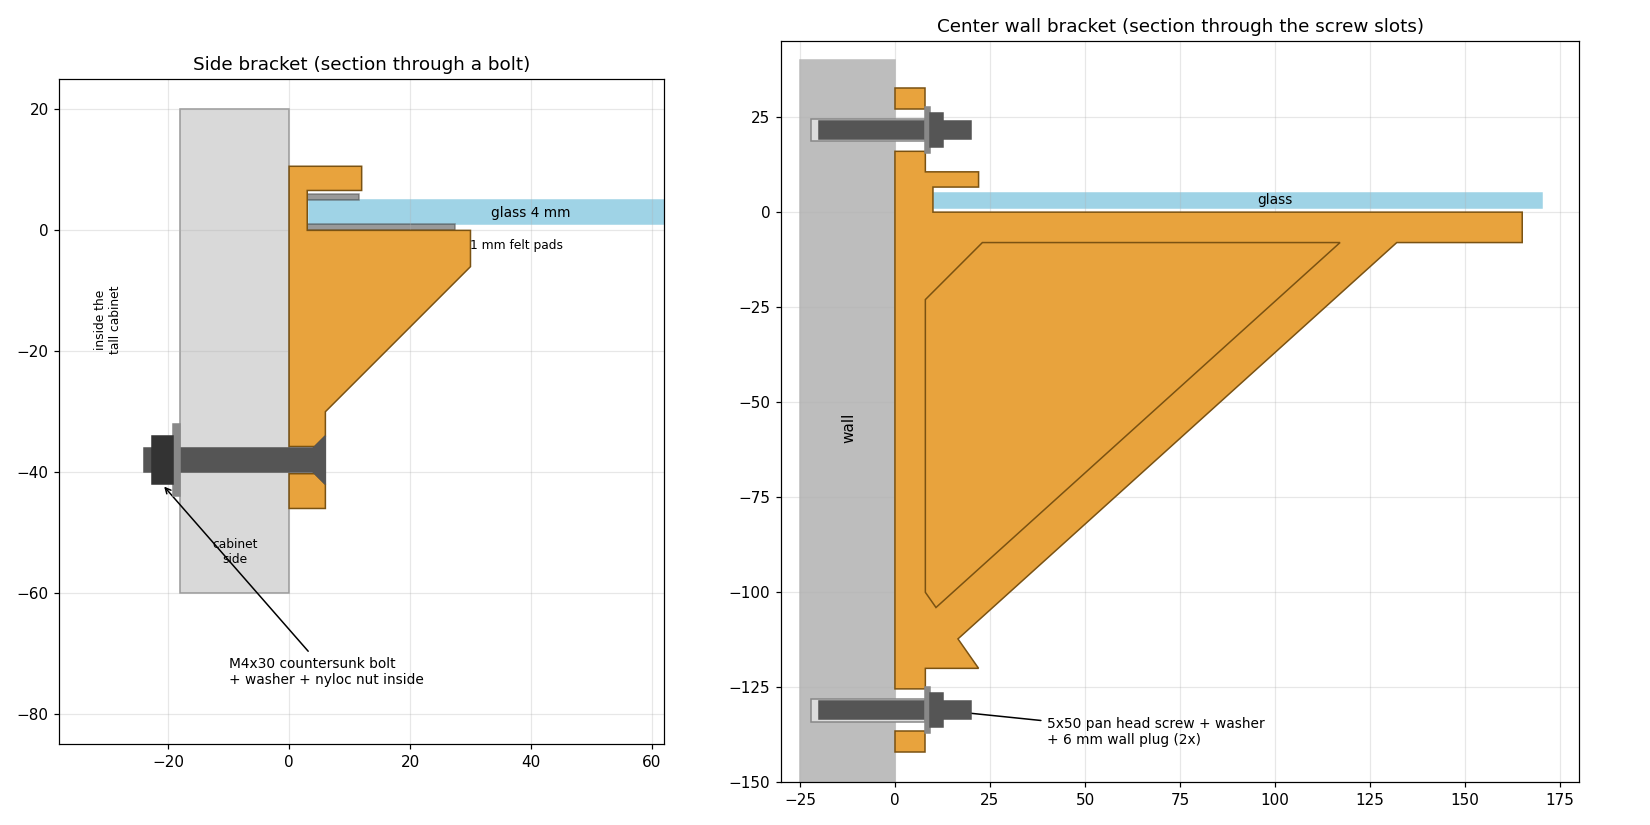
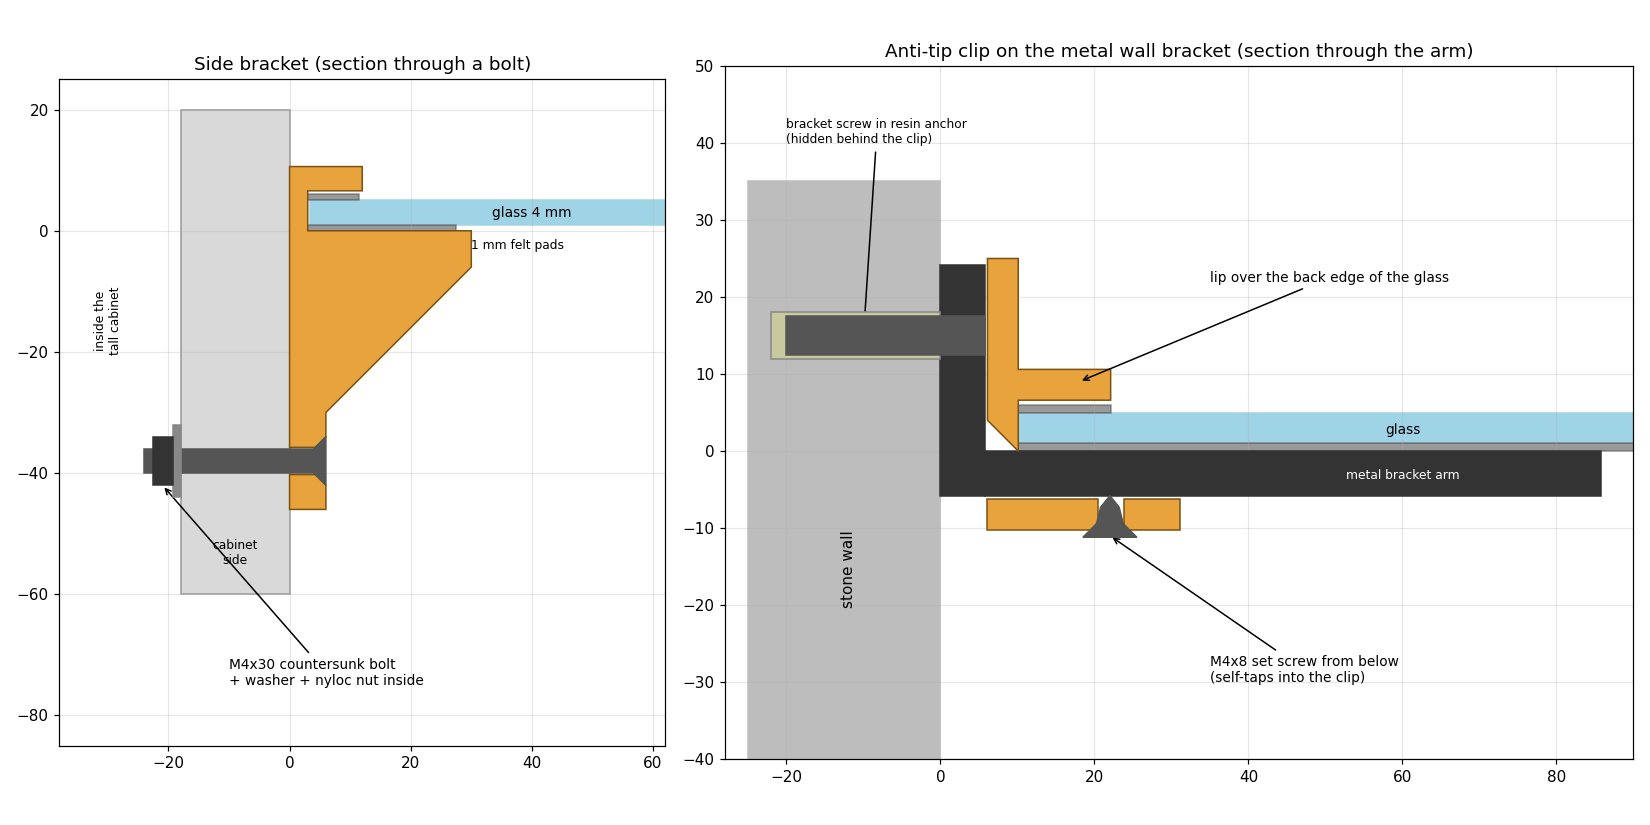
besta shelves: wall brackets and anti-tip clip
Both shelves now rest on 2 metal wall brackets 40 cm from the ends, so
they stay up if a cabinet is moved. The printed center bracket is
replaced by an anti-tip clip that slides on the bracket arm and holds
the back edge of the glass. READMEs cover the new layout and fixing
into a thick stone wall.

diff --git a/FreeCad/Besta Glass Shelf Support/glass_shelf_supports.py b/FreeCad/Besta Glass Shelf Support/glass_shelf_supports.py
@@ -28,18 +28,22 @@ DROP      = 46.0   # how far the plate extends below the resting surface
 SCREW_D   = 4.5    # screw hole (M4 through bolts or 3.5 mm chipboard screws)
 CSK_D     = 8.0    # countersink diameter
 
-# --- center bracket (wall mounted, supports the middle of the glass) ---
-C_WIDTH   = 40.0   # width
-C_ARM     = 165.0  # reach from the wall (printed lying down: A1 mini bed 180x180)
-C_H       = 120.0  # height below the resting surface
-C_PLATE   = 8.0    # wall plate thickness
-C_LT      = 8.0    # arm thickness
-C_STRUT   = 10.0   # diagonal strut thickness
-GLASS_BACK = 10.0  # distance from wall to the back edge of the glass (min. 4)
-C_LIP     = 12.0   # top lip over the back edge of the glass
-WALL_SCREW = 5.2   # wall screw slot width (6 mm plug + 4.5/5 mm screw)
-SLOT_LEN  = 6.0    # slot travel for height adjustment (+-3 mm)
-
+# --- anti-tip clip (slides on the arm of a metal wall bracket, holds the back edge of the glass) ---
+# Made for T-shaped flat-bar shelf brackets (TESSTINA "concealed" type): wall plate 100 x 30 x 5.8 mm,
+# arm a flat bar laid flat, leaving the plate bottom edge. MEASURE YOURS and adjust.
+BAR_W     = 38.0   # arm width
+BAR_T     = 5.8    # arm thickness
+PLATE_T   = 5.8    # wall plate thickness
+PLATE_UP  = 24.0   # how far the wall plate rises above the top of the arm
+BEND_R    = 4.0    # clearance for the bend between plate and arm
+FIT       = 0.4    # clearance around the arm
+CLIP_W    = 100.0  # clip width (covers the wall plate)
+CLIP_WALL = 4.0    # front wall thickness: the back edge of the glass ends up at PLATE_T + 0.3 + CLIP_WALL from the wall
+CLIP_LIP  = 12.0   # how far the lip covers the glass
+CLIP_LIP_T = 4.0   # lip thickness
+CLIP_REACH = 25.0  # how far the clip runs along the arm
+CLIP_FLOOR = 4.0   # thickness under the arm
+SET_D     = 3.4    # set screw hole (M4 screw self-taps into the plastic)
 OUT_DIR = os.path.dirname(os.path.abspath(__file__)) if "__file__" in dir() else os.getcwd()
 # ------------------------------------------------------------------------
 
@@ -81,53 +85,40 @@ def side_bracket():
     return body.removeSplitter()
 
 
-def center_bracket():
-    # profile in the YZ plane (Y = out from the wall), extruded along X
-    def pr(pts):
-        v = [App.Vector(0, y, z) for y, z in pts]
-        return Part.Face(Part.makePolygon(v + [v[0]])).extrude(App.Vector(C_WIDTH, 0, 0))
-
-    z_top = SLOT + 4 + 22          # plate rises above the glass for the upper screw
-    z_bot = -C_H - 22              # and drops below the strut foot for the lower one
-    plate = pr([(0, z_bot), (C_PLATE, z_bot), (C_PLATE, z_top), (0, z_top)])
-    arm = pr([(0, -C_LT), (C_ARM, -C_LT), (C_ARM, 0), (0, 0)])
-    back = pr([(0, 0), (GLASS_BACK, 0), (GLASS_BACK, SLOT), (0, SLOT)])
-    lip = pr([(0, SLOT), (GLASS_BACK + C_LIP, SLOT), (GLASS_BACK + C_LIP, SLOT + 4), (0, SLOT + 4)])
-    # diagonal strut from the plate foot to 80% of the arm
-    ya, za = C_PLATE, -C_H
-    yb, zb = C_ARM * 0.8, -C_LT
-    import math
-    dy, dz = yb - ya, zb - za
-    n = math.hypot(dy, dz)
-    oy, oz = -dz / n * C_STRUT, dy / n * C_STRUT   # perpendicular offset
-    strut = pr([(ya, za), (yb, zb), (yb + oy, zb + oz), (ya + oy, za + oz)])
-    strut = strut.common(pr([(0, -C_H), (C_ARM, -C_H), (C_ARM, 0), (0, 0)]))
-    # fillets
-    f1 = pr([(C_PLATE, -C_LT), (C_PLATE + 15, -C_LT), (C_PLATE, -C_LT - 15)])
-    f2 = pr([(C_PLATE, -C_H + 20), (C_PLATE, -C_H), (C_PLATE + 14, -C_H)])
-    body = plate.fuse([arm, back, lip, strut, f1, f2])
-
-    # vertical wall slots, clear in front (straight screwdriver access)
-    cx = C_WIDTH / 2
-    for zc in (z_top - 11, z_bot + 11):
-        r = WALL_SCREW / 2
-        s = Part.makeCylinder(r, C_PLATE + 2, App.Vector(cx, -1, zc - SLOT_LEN / 2), App.Vector(0, 1, 0))
-        s2 = Part.makeCylinder(r, C_PLATE + 2, App.Vector(cx, -1, zc + SLOT_LEN / 2), App.Vector(0, 1, 0))
-        sb = Part.makeBox(2 * r, C_PLATE + 2, SLOT_LEN, App.Vector(cx - r, -1, zc - SLOT_LEN / 2))
-        body = body.cut(s).cut(s2).cut(sb)
+def anti_tip_clip():
+    # profile in the YZ plane (Y = out from the wall, Z = up, top of the metal arm at Z=0), extruded along X
+    y0 = PLATE_T + 0.3                       # back face rests against the wall plate
+    yw = y0 + CLIP_WALL                      # back edge of the glass
+    zb = -BAR_T - FIT - CLIP_FLOOR           # underside
+    pts = [(y0, zb), (y0 + CLIP_REACH, zb), (y0 + CLIP_REACH, 0), (yw, 0), (yw, SLOT),
+           (yw + CLIP_LIP, SLOT), (yw + CLIP_LIP, SLOT + CLIP_LIP_T), (yw, SLOT + CLIP_LIP_T),
+           (yw, PLATE_UP + 1), (y0, PLATE_UP + 1)]
+    v = [App.Vector(-CLIP_W / 2, y, z) for y, z in pts]
+    body = Part.Face(Part.makePolygon(v + [v[0]])).extrude(App.Vector(CLIP_W, 0, 0))
+    # the glass slot is open: glass rests on the arm (and on the clip top at Z=0) with felt
+    # channel for the metal arm
+    hw = BAR_W / 2 + FIT
+    body = body.cut(Part.makeBox(2 * hw, CLIP_REACH + 2, BAR_T + FIT + 0.01,
+                                 App.Vector(-hw, y0 - 1, -BAR_T - FIT)))
+    # clearance for the plate/arm bend
+    v = [App.Vector(-hw, y, z) for y, z in ((y0 - 1, -0.01), (y0 + BEND_R, -0.01), (y0 - 1, BEND_R + 1))]
+    body = body.cut(Part.Face(Part.makePolygon(v + [v[0]])).extrude(App.Vector(2 * hw, 0, 0)))
+    # set screw from below: presses the arm up against the clip and stops it sliding
+    body = body.cut(Part.makeCylinder(SET_D / 2, CLIP_FLOOR + 2,
+                                      App.Vector(0, y0 + CLIP_REACH - 9, zb - 1)))
     return body.removeSplitter()
 
 
 doc = App.newDocument("GlassShelfSupports")
 side = side_bracket()
-cen = center_bracket()
+clip = anti_tip_clip()
 o1 = doc.addObject("Part::Feature", "SideBracket"); o1.Shape = side
-o2 = doc.addObject("Part::Feature", "CenterBracket"); o2.Shape = cen
-o2.Placement.Base = App.Vector(80, 0, 0)
+o2 = doc.addObject("Part::Feature", "AntiTipClip"); o2.Shape = clip
+o2.Placement.Base = App.Vector(120, 0, 0)
 doc.recompute()
 doc.saveAs(os.path.join(OUT_DIR, "glass_shelf_supports.FCStd"))
 
-for shape, name in ((side, "side_bracket_x2.stl"), (cen, "center_bracket_x1.stl")):
+for shape, name in ((side, "side_bracket_x2.stl"), (clip, "anti_tip_clip_x2.stl")):
     m = Mesh.Mesh(shape.tessellate(0.05))
     m.write(os.path.join(OUT_DIR, name))
     print(name, "volume cm3:", round(shape.Volume / 1000, 1), "valid:", shape.isValid(),

diff --git a/FreeCad/Besta Glass Shelf Support/README.md b/FreeCad/Besta Glass Shelf Support/README.md
@@ -1,6 +1,10 @@
 # BESTÅ Glass Shelf Support
 
-3D printed supports that turn an IKEA **BESTÅ glass top panel (180 × 40 cm, 4 mm tempered glass)** into a floating shelf between two tall BESTÅ cabinets, above the BESTÅ TV bench. The glass is never drilled: its ends slide into two sideways-U brackets bolted to the cabinet sides, and a wall bracket supports the middle.
+Turns an IKEA **BESTÅ glass top panel (180 × 40 cm, 4 mm tempered glass)** into a floating shelf between two tall BESTÅ cabinets, above the BESTÅ TV bench. The glass is never drilled:
+
+- **It rests on 2 metal wall brackets.** They are flat-bar T brackets with 25 cm arms, placed 40 cm from each end, so the shelf stands on the wall alone.
+- **2 printed anti-tip clips hold its back edge.** They slide onto the bracket arms, so a weight on the front edge (the arms are 25 cm, the glass is 40 cm deep) cannot tip the glass up. They also cover the black wall plates.
+- **2 printed side brackets (sideways U) can hold its ends.** They are optional extras, bolted to the cabinet sides. If you ever need to move a cabinet, unbolt the U and the shelf stays up.
 
 ![Overview](overview.png)
 
@@ -8,32 +12,33 @@
 
 | File | Qty | What it is |
 |---|---|---|
-| `side_bracket_x2.stl` | 2 | Sideways U, 170 mm long. The glass end slides into the slot and the plate below is bolted to the cabinet side. It is symmetric, so for the other side just rotate it 180°. |
-| `center_bracket_x1.stl` | 1 | Wall bracket with a 165 mm arm and a lip over the back edge of the glass. Without it the 4 mm glass sags about 3–4 cm over 1.8 m from its own weight. |
+| `anti_tip_clip_x2.stl` | 2 | Clip that slides onto the arm of a metal bracket, with a lip over the back edge of the glass. An M4 set screw from below locks it. |
+| `side_bracket_x2.stl` | 2 | Sideways U, 170 mm long, bolted to the cabinet side; the glass end slides into it. It is symmetric, so for the other side just rotate it 180°. |
 | `glass_shelf_supports.py` | – | Parametric FreeCAD script that generates everything. |
 | `glass_shelf_supports.FCStd` | – | FreeCAD model. |
 
-![Sections with fasteners](sections.png)
+![Sections](sections.png)
 
 ## Hardware
 
 | Qty | Item | Where |
 |---|---|---|
+| 2 | Flat-bar T shelf bracket, 25 cm arm (e.g. TESSTINA "concealed" 80 kg: wall plate 100 × 30 × 5.8 mm, 3 countersunk holes) | wall |
+| 6 | Wall fixings for those brackets, see [Fixing into a thick stone wall](#fixing-into-a-thick-stone-wall) | bracket → wall |
+| 2 | M4 × 8 screw (any head) | clip set screw, self-taps into the plastic |
 | 6 | M4 × 30 countersunk bolt (ISO 10642 / DIN 7991) | side brackets → through the cabinet side |
 | 6 | M4 washer, wide (DIN 9021) | inside the cabinet |
-| 6 | M4 nyloc nut (DIN 985), or domed cap nut (DIN 1587) for a tidier look | inside the cabinet |
-| 2 | 5 × 50 pan head wood screw | center bracket → wall |
-| 2 | 6 mm wall plug for your wall type (masonry plug for brick/concrete, metal cavity anchor for drywall) | center bracket → wall |
-| 2 | 5.3 mm washer (DIN 125) | center bracket slots |
-| ~1 m | 1 mm adhesive felt tape, 10 mm wide | lines every face that touches the glass |
+| 6 | M4 nyloc nut (DIN 985), or a plain nut with medium (blue) threadlocker | inside the cabinet |
+| ~1 m | 1 mm adhesive felt tape, 10 mm wide | every face that touches the glass |
 
-**Why through bolts?** BESTÅ frame sides are particleboard skins with a honeycomb paper core, so wood screws in the middle of a side panel hold poorly. Bolting through the side with a wide washer inside spreads the load and holds firmly. M4 × 30 works for sides up to ~18 mm thick, so measure yours and use M4 × 35 if it is thicker.
+**Why bolt through the cabinet?** BESTÅ frame sides are particleboard skins with a honeycomb paper core, so wood screws in the middle of a side panel hold poorly. A bolt with a wide washer inside holds firmly. M4 × 30 suits sides up to ~19 mm thick; use M4 × 35 if yours are thicker.
 
 ## Before you start
 
 1. **Glass thickness.** The IKEA spec is 0.4 cm. Measure it with a caliper and set `GLASS_T` if it differs.
-2. **Gap between the tall cabinets.** It must be at least **1808 mm**: 1800 of glass, plus 3 mm of U back wall on each side, plus 2 mm of play. Tempered glass cannot be cut. If the gap is smaller, move a cabinet out a few mm, or set `BACK = 0`. With `BACK = 0` the side bracket becomes an L: the glass rests on it with no top lip, and nothing sits between the glass and the cabinet.
-3. **Wall distance.** Measure how far the back edge of the glass will be from the wall and set `GLASS_BACK` (default 10 mm, min. 4).
+2. **Metal brackets.** Measure the arm width and thickness (`BAR_W`, default 38, and `BAR_T`, default 5.8). Also measure how far the wall plate rises above the top of the arm (`PLATE_UP`, default 24). Then regenerate the clip.
+3. **Depth.** The back edge of the glass ends up about 10 mm from the wall (plate 5.8 + clip wall 4). Check that this works with how far your cabinets stand from the wall.
+4. **Gap between the cabinets (side brackets only).** It must be at least **1808 mm**: 1800 of glass, plus 3 mm of U back wall on each side, plus 2 mm of play. If it is smaller, set `BACK = 0`: the U becomes an L and the glass rests on it with no top lip. Or leave the side brackets out.
 
 ## Printing (Bambu Lab A1 mini)
 
@@ -49,24 +54,49 @@
 
 ![Print orientation](print_orientation.png)
 
+- **Anti-tip clip:** print it with its back face (the wall side) on the bed. Every feature then grows straight up, so there are no overhangs.
 - **Side bracket:** stand it upright on its U profile (170 mm tall). The layers then follow the profile, so the ledge carrying the glass does not load the layer lines in tension.
-- **Center bracket:** lay it on its side (profile on the bed, 40 mm tall).
 
 ## Installation
 
-1. **Mark the shelf height** on both cabinet sides. The top of the side-bracket ledge sits 1 mm (felt) below the underside of the glass. Use a laser or a long spirit level so both sides are at exactly the same height.
-2. **Position the side brackets.** Hold each side bracket against the cabinet side with the U opening toward the gap, centered on the depth (about 115 mm from the front edge). Keep it level.
-3. **Drill.** Use the bracket as a template and drill **4.5 mm** through the cabinet side at the 3 holes. Clamp a scrap block on the inside so the melamine doesn't chip.
-4. **Bolt the side brackets.** Fit the countersunk bolts from the bracket side, and the washers and nuts inside the cabinet. Tighten firmly, but don't crush the panel.
-5. **Mount the center bracket.** Hold it on the wall at mid-span, with its ledge at the same height as the side ledges; a straight edge across all three helps. Mark the slots, drill and plug the wall, then fit the screws with washers. Fine-tune the height (±3 mm) in the slots before the final tightening.
-6. **Add the felt.** Stick felt tape on the ledge and under the top lip of each U, and on the center bracket ledge and lip.
-7. **Fit the glass.** Hold it level at the height of the slots and slide it in from the front, pushing it back until it reaches the center bracket. It should not rattle. If it does, use thicker felt, and if it is too tight, thinner felt (or change `PAD` and reprint).
+1. **Metal brackets.** Mount the 2 metal brackets on the wall **40 cm from each end of the shelf**, i.e. 100 cm apart and centered on the gap. The tops of both arms must be at exactly the same height: use a spirit level on each one and a long straight edge across both. Shelf height = top of the arm + 1 mm of felt.
+2. **Clips.** Slide a clip onto each arm until it rests against the wall plate, then tighten the M4 × 8 set screw from below until the clip is firm. Don't overtighten: the screw only needs to stop the clip from sliding.
+3. **Felt.** Stick felt tape on top of each arm and clip, and under each clip lip.
+4. **Side brackets (optional).** Lay the straight edge on the two arms and mark that height on both cabinet sides. The top of each side-bracket ledge goes exactly there, so all four supports are level. Center each bracket on the depth with the U opening toward the gap.
+   - **Drill:** use the bracket as a template and drill **4.5 mm** through the cabinet side at its 3 holes, with a scrap block clamped inside so the melamine doesn't chip.
+   - **Bolt:** fit the countersunk bolts from the bracket side, and the washers and nuts inside the cabinet. Felt goes in the U too.
+5. **Glass.** Hold it level and slide it in from the front, under the clip lips (and into the U slots), until its back edge touches the clips. It should not rattle. If it does, use thicker felt, and if it is too tight, thinner felt (or change `PAD`).
 
-**Load:** keep it moderate (decorations, a few books spread out) and avoid heavy point loads near the front at mid-span.
+**Moving a cabinet later:** take the glass out, unbolt that side bracket, move the cabinet, then put everything back. The metal brackets and clips stay on the wall.
+
+## Fixing into a thick stone wall
+
+Old stone walls (often ~1 m thick: hard stones bedded in lime mortar, with voids, under a thick plaster coat) are hard on ordinary plugs. The drill wanders between hard stone and soft mortar, holes come out oversized, and the plug has nothing solid to expand against.
+
+**Best option: injection resin (chemical anchor).** Fischer FIS V / FIS EM Plus, Würth WIT, Mungo and similar.
+- **How:** drill, clean the hole thoroughly (blow out and brush, at least twice: dust is what makes resin fail), inject resin from the bottom up and push in the plug while the resin is wet. You can use the plug supplied with the bracket, or a threaded rod or internally threaded sleeve (e.g. Fischer RG MI). Wait the cure time printed on the cartridge (usually 1–2 h) before driving the screw and loading.
+- **Voids:** if the hole hits a cavity, put a **mesh sleeve** in the hole first, so the resin doesn't vanish into it.
+
+**Simpler option, if the hole comes out clean in solid stone:** a good universal plug such as Fischer DuoPower or UX, longer than usual (e.g. 8 × 65). It must go past the plaster, because the old plaster (2–3 cm) holds nothing and only the depth in the stone counts.
+
+**Drilling tips:**
+- **Tool:** use hammer mode (an SDS rotary hammer is ideal) with a sharp masonry bit.
+- **Mortar:** if the bit slips into soft mortar, switch hammer off so the hole doesn't widen.
+- **Oversized hole:** if a hole comes out too big, don't force a bigger plug in; use resin.
+
+## How stiff is it?
+
+Rough estimates of the sag of a 1.8 m shelf:
+
+| Support | 4 mm glass |
+|---|---|
+| Only at the ends (side brackets alone) | ~36 mm |
+| 2 brackets 30 cm from the ends | ~5 mm |
+| **2 brackets 40 cm from the ends** | **< 1 mm** (≈ 2 mm with 10 kg spread on top) |
 
 ## Changing the design
 
-All dimensions are parameters at the top of `glass_shelf_supports.py`. Edit them and run:
+All dimensions (glass, felt, metal bracket, clip, side bracket) are parameters at the top of `glass_shelf_supports.py`. Edit them and run:
 
 ```bash
 /Applications/FreeCAD.app/Contents/Resources/bin/freecadcmd glass_shelf_supports.py

diff --git a/FreeCad/Besta Top Panel Brackets/README.md b/FreeCad/Besta Top Panel Brackets/README.md
@@ -1,6 +1,9 @@
 # BESTÅ Top Panel Brackets
 
-Small hidden L brackets that fix an IKEA **BESTÅ oak veneer top panel (180 × 42 × 2 cm, solid particleboard)** between two tall BESTÅ cabinets, for example flush with their tops. One leg is bolted to the cabinet side and the other is screwed up into the underside of the panel. Nothing is visible from the front, and nothing sits between the panel end and the cabinet.
+Fixes an IKEA **BESTÅ oak veneer top panel (180 × 42 × 2 cm, solid particleboard)** between two tall BESTÅ cabinets, for example flush with their tops:
+
+- **It is carried by 2 metal wall brackets.** They are flat-bar T brackets with 25 cm arms, 40 cm from each end, screwed up into the panel, so the panel stands on the wall alone.
+- **4 small printed L brackets lock its ends** to the cabinet sides: one leg is bolted to the cabinet, the other is screwed up into the panel. Nothing is visible from the front, and nothing sits between the panel end and the cabinet. To move a cabinet later, unbolt its two L brackets and the panel stays up.
 
 ![Overview](overview.png)
 
@@ -18,13 +21,16 @@ Small hidden L brackets that fix an IKEA **BESTÅ oak veneer top panel (180 × 4
 
 | Qty | Item | Where |
 |---|---|---|
-| 8 | M4 × 30 countersunk bolt (ISO 10642 / DIN 7991) | brackets → through the cabinet side |
+| 2 | Flat-bar T shelf bracket, 25 cm arm (e.g. TESSTINA "concealed" 80 kg) | wall |
+| 6 | Wall fixings for those brackets, see [Fixing into a thick stone wall](../Besta%20Glass%20Shelf%20Support/README.md#fixing-into-a-thick-stone-wall) | metal bracket → wall |
+| 4–6 | 3.5 × 16 countersunk chipboard screw | metal bracket arm → underside of the panel |
+| 8 | M4 × 30 countersunk bolt (ISO 10642 / DIN 7991) | L brackets → through the cabinet side |
 | 8 | M4 washer, wide (DIN 9021) | inside the cabinet |
-| 8 | M4 nyloc nut (DIN 985), or domed cap nut (DIN 1587) | inside the cabinet |
-| 8 | 3.5 × 16 countersunk chipboard screw (e.g. Spax) | brackets → underside of the top panel |
+| 8 | M4 nyloc nut (DIN 985), or a plain nut with medium (blue) threadlocker | inside the cabinet |
+| 8 | 3.5 × 16 countersunk chipboard screw (e.g. Spax) | L brackets → underside of the panel |
 
-- **Cabinet side:** BESTÅ frame sides have a honeycomb paper core, so bolt through them rather than using wood screws. M4 × 30 works for sides up to ~19 mm thick; use M4 × 35 if yours are thicker.
-- **Top panel:** it is solid particleboard. A 3.5 × 16 screw goes 11 mm into the 20 mm panel, so it never comes through the top.
+- **Cabinet side:** BESTÅ frame sides have a honeycomb paper core, so bolt through them rather than using wood screws. M4 × 30 suits sides up to ~19 mm thick; use M4 × 35 if yours are thicker.
+- **Top panel:** it is solid particleboard. A 3.5 × 16 screw goes ~11 mm into the 20 mm panel through a printed bracket (5 mm), or ~10 mm through a metal arm (5.8 mm), so it never comes through the top. Don't use the long shelf screws supplied with the metal brackets: they would go through the panel.
 
 ## Printing (Bambu Lab A1 mini)
 
@@ -38,22 +44,33 @@ Small hidden L brackets that fix an IKEA **BESTÅ oak veneer top panel (180 × 4
 
 ![Print orientation](print_orientation.png)
 
-Stand each bracket on its L profile (40 mm tall), so the layers follow the profile and the corner is as strong as possible. The 4 brackets fit on one plate.
+Stand each L bracket on its L profile (40 mm tall), so the layers follow the profile and the corner is as strong as possible. All 4 fit on one plate.
+
+## Before you start
+
+- **Width:** the panel is exactly 180 cm, so the gap between the tall cabinets must be at least 1800 mm. The L brackets take no extra width.
+- **Depth:** the panel is 42 cm deep against 40 cm cabinets. Its back edge sits ~6 mm off the wall, in front of the metal wall plates, so it sticks out about 2.6 cm in front of cabinets that touch the wall.
+- **Wall plates:** they rise ~24 mm above the arm, so they show ~4 mm above the back edge of the 20 mm panel. At 192 cm high this can't be seen.
 
 ## Installation
 
-1. **Check the fit.** The panel is exactly 180 cm, so the gap between the tall cabinets must be at least 1800 mm. The brackets take no extra width. The panel is 42 cm deep against 40 cm cabinets, so decide whether the 2 cm overhang goes at the front (covers the cabinet edges) or at the back.
-2. **Mark the height.** For a panel flush with the cabinet tops (192 cm), the top of each bracket sits **20 mm below the cabinet top**. A 20 mm offcut of wood makes a good spacer.
-3. **Position the brackets.** Use 2 brackets per side, about **30 mm from the front and back edges** (see the plan view above).
-4. **Drill the cabinet side.** Use each bracket as a template and drill **4.5 mm** through the cabinet side at its 2 holes. Clamp a scrap block inside so the melamine doesn't chip.
-5. **Bolt the brackets.** Fit the countersunk bolts from the bracket side, and the washers and nuts inside the cabinet.
-6. **Lay the panel.** Rest the panel on the 4 brackets and check that it is level and flush.
-7. **Screw into the panel.** From below, drill **2.5 mm** pilot holes into the panel through the bracket holes. Wrap tape on the bit at **13 mm** as a depth stop, so you never come out through the veneer. Then drive the 3.5 × 16 screws.
+1. **Mark the height.** For a panel flush with the cabinet tops (192 cm), the top of the metal arms and of the L brackets sits **20 mm below the cabinet top**. A 20 mm offcut of wood makes a good spacer.
+2. **Metal brackets.** Mount the 2 metal brackets on the wall **40 cm from each end of the gap** (100 cm apart), level with each other. Use a spirit level on each one and a long straight edge across both. See the stone wall notes for the fixings.
+3. **L brackets.** Use 2 per side, about **30 mm from the front and back edges** (see the plan view above), at the same height as the arms. Lay the straight edge on the arms to transfer it.
+4. **Drill the cabinet sides.** Use each L bracket as a template and drill **4.5 mm** through the cabinet side at its 2 holes. Clamp a scrap block inside so the melamine doesn't chip.
+5. **Bolt the L brackets.** Fit the countersunk bolts from the bracket side, and the washers and nuts inside the cabinet.
+6. **Lay the panel.** Rest the panel on the 2 arms and the 4 L brackets. Push it back against the wall plates and check that it is level and flush.
+7. **Screw from below.** Drill **2.5 mm** pilot holes into the panel through the holes of the arms and the L brackets. Wrap tape on the bit at **13 mm** as a depth stop, so you never come out through the veneer. Then drive the 3.5 × 16 screws.
 
-## Notes
+## How stiff is it?
 
-- **Sag.** 20 mm particleboard free over 1.8 m sags roughly 1 cm from its own weight, and more with load and over time. For books or heavy items, add a hidden support at mid-span (for example a low wall bracket screwed up into the underside, like the center bracket in [Besta Glass Shelf Support](../Besta%20Glass%20Shelf%20Support/)).
-- **IKEA fittings.** The mounting fittings supplied with the panel are meant for placing it on top of BESTÅ cabinets and are not needed here.
+Rough estimates of the sag of the 1.8 m panel:
+
+| Support | 20 mm oak top panel |
+|---|---|
+| Only at the ends (L brackets alone) | ~11 mm, more over time |
+| 2 brackets 30 cm from the ends | ~1.6 mm |
+| **2 brackets 40 cm from the ends** | **< 0.5 mm**, even with 10 kg on top |
 
 ## Changing the design
 
